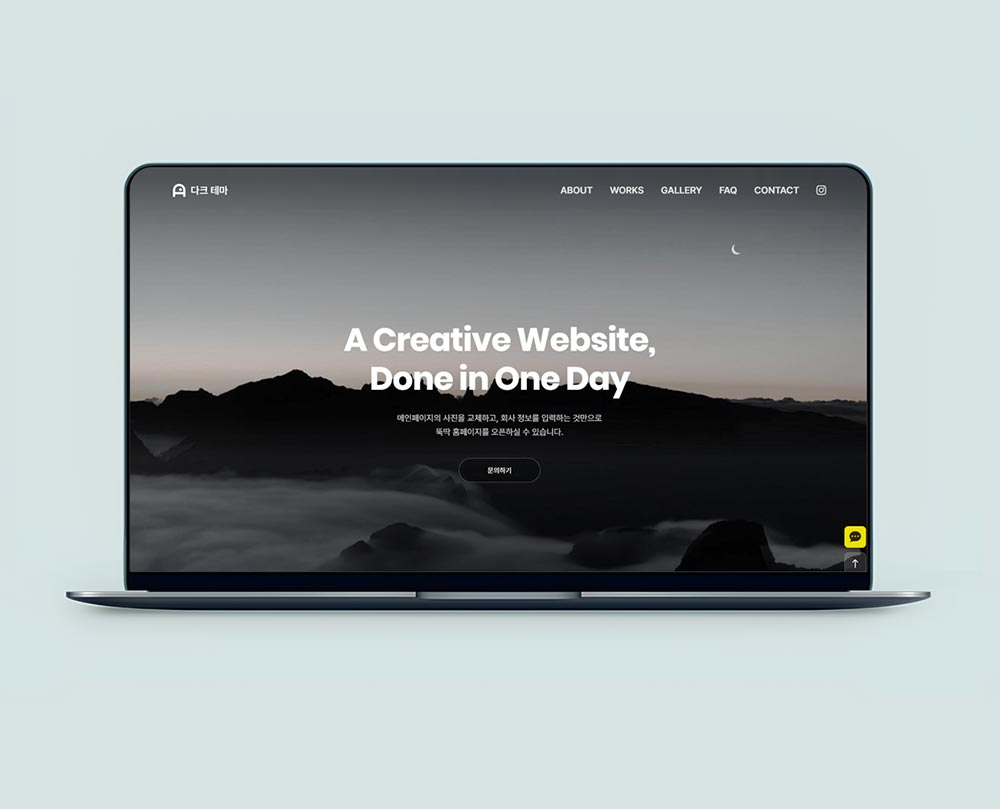
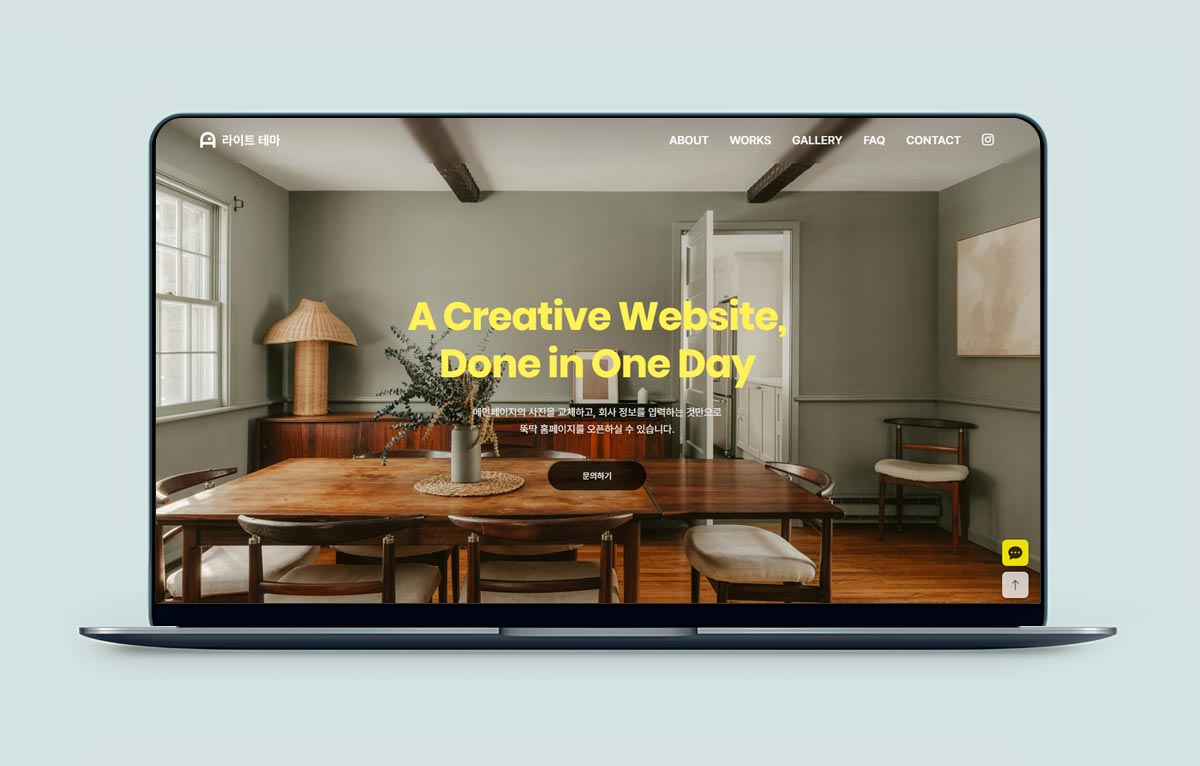
중간저장

diff --git a/assets/css/front-page.css b/assets/css/front-page.css
@@ -92,7 +92,7 @@ body.goyo-unicorn-over-black--screen .mainhero-unicorn { mix-blend-mode: screen;
 .mainhero-lead { margin: clamp(1.25rem, 2vw, 1.7rem) 0 0 0; font-size: clamp(1.05rem, 2vw, 1.2rem); font-weight: 400; line-height: 1.65; color: rgba(242, 242, 240, 0.66); animation: goyo-hero-txt-in 1.3s cubic-bezier(0.22, 1, 0.36, 1) 0.8s both; }
 .mainhero-btn { display: inline-flex; align-items: center; justify-content: center; margin: clamp(1.75rem, 3.5vw, 2.5rem) 0 0 0; padding: 1rem 2rem; min-width: 170px;font-size: 0.88rem; font-weight: 500; line-height: 1.2; letter-spacing: 0.01em; text-decoration: none; color: #f2f2f0; 
 	border: 1px solid rgba(255, 255, 255, 0.3); border-radius: 6rem; background: rgba(0, 0, 0, 0.3); animation: goyo-hero-txt-in 1.3s cubic-bezier(0.22, 1, 0.36, 1) 1.2s both; }
-.mainhero-btn:hover { filter: brightness(1.5); }
+/* .mainhero-btn:hover { filter: brightness(1.5); } */
 .mainhero-btn:focus-visible { outline: 2px solid rgba(255, 255, 255, 0.55); outline-offset: 2px; }
 /* 홈: 히어로 뷰포트 고정, 본문(.conWrap)만 스크롤되며 위로 덮임 — 조상은 transform/filter 없게(블록 에디터가 fixed 를 뷰포트 기준으로 묶여 사라지는 현상 방지) */
 body.front-page .wp-site-blocks,

diff --git a/assets/css/header.css b/assets/css/header.css
@@ -72,7 +72,7 @@ header .menu-item.current-menu-ancestor > a:focus-visible,
 header .menu-item.current-page-ancestor > a:focus-visible { color: var(--menu-top-current-color); }
 header .menu-item:not(.current-menu-item):not(.current-menu-parent):not(.current-menu-ancestor):not(.current-page-ancestor) > a:hover,
 header .menu-item:not(.current-menu-item):not(.current-menu-parent):not(.current-menu-ancestor):not(.current-page-ancestor) > a:focus-visible { color: var(--menu-top-current-color); }
-header .sub-menu { display: none; display:block; flex-direction: column; box-shadow: 0 3px 10px rgba(0,0,0,0.18);
+header .sub-menu { display: none; display:block; flex-direction: column; box-shadow: 0 3px 5px rgba(0,0,0,0.08);
     overflow: hidden; position: absolute; top: calc(100% - 5px); left: 50%; z-index: 101; 
     min-width: 150px; width:fit-content; visibility: hidden; border:1px solid var(--border-color);
     background-color: var(--submenu-bg-color); 

diff --git a/inc/category-functions.php b/inc/category-functions.php
@@ -294,7 +294,7 @@ function add_category_post_format_field_edit($term) {
     ];
     ?>
     <tr class="form-field">
-        <th scope="row"><label for="post_format">게시글 형식</label></th>
+        <th scope="row"><label for="post_format_edit">게시글 형식</label></th>
         <td>
             <select name="post_format" id="post_format_edit">
                 <?php foreach ($options as $value => $label) : ?>